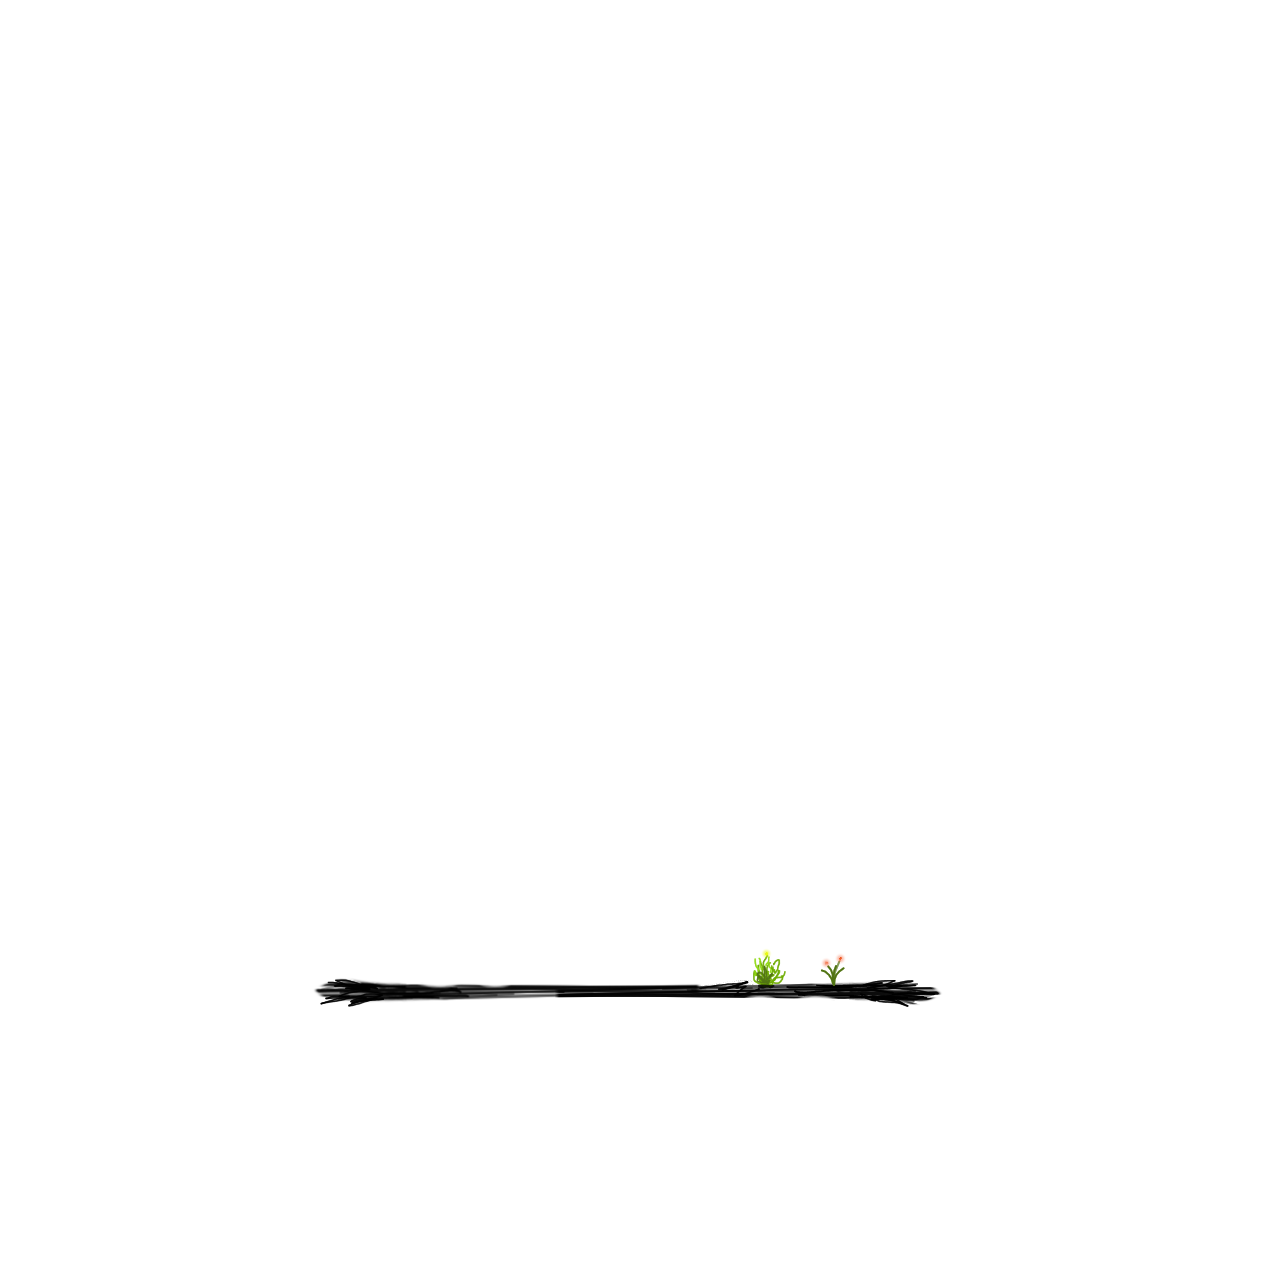
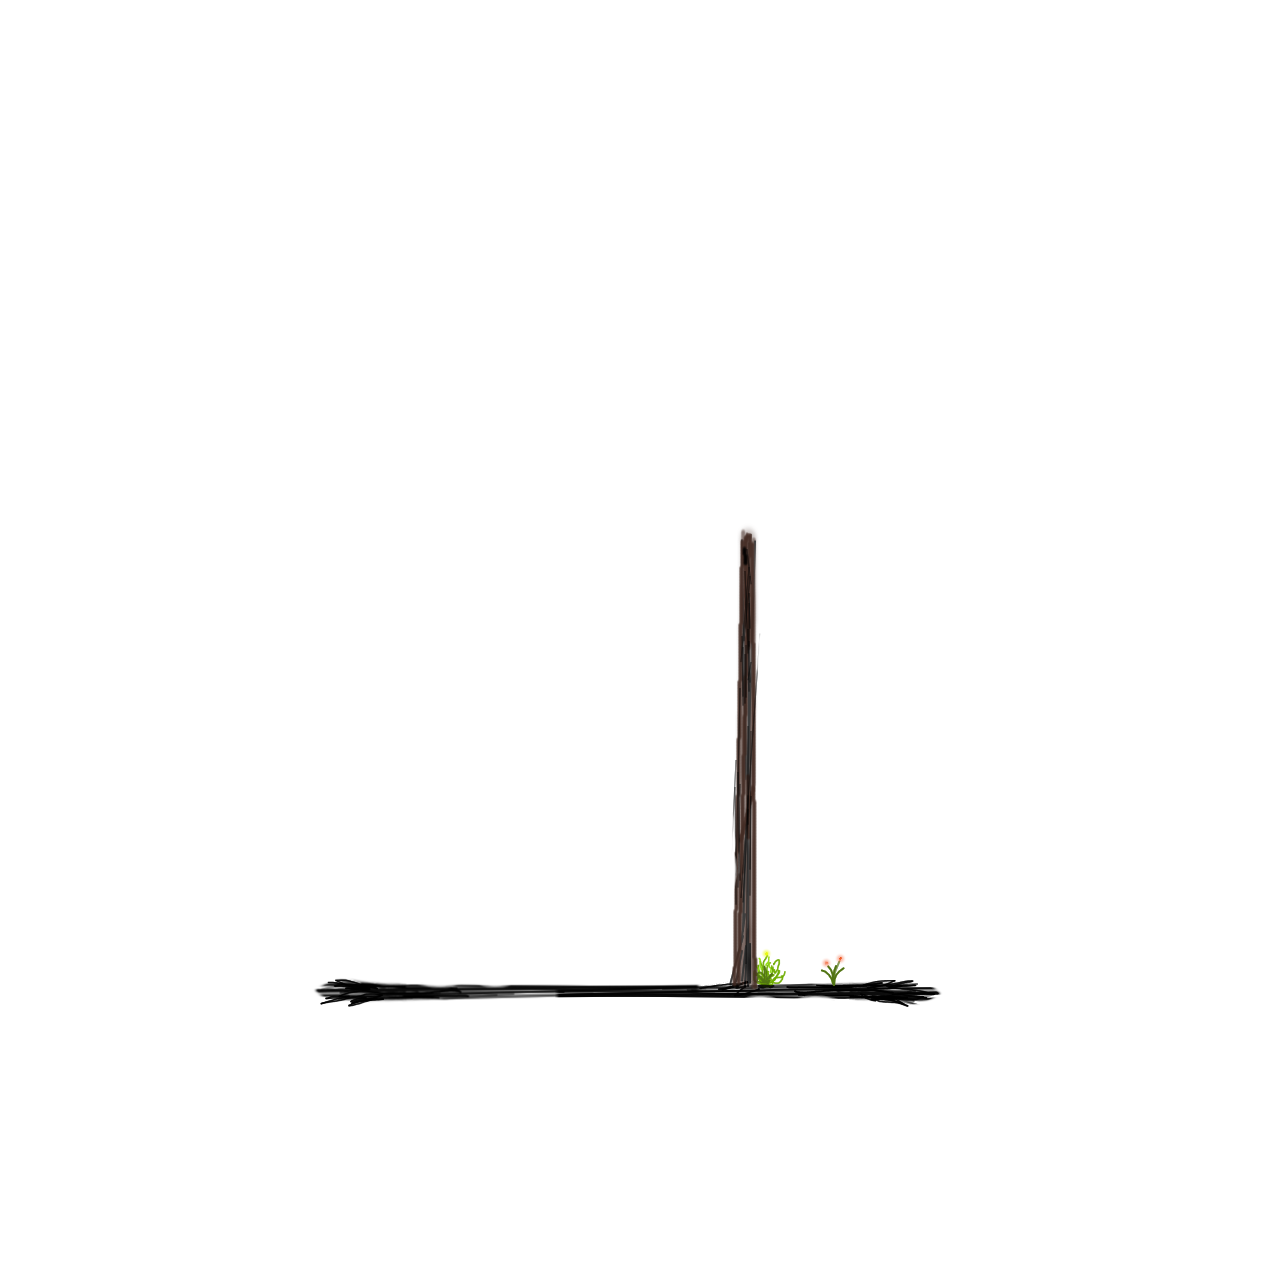
imageEtat

Changed region(s): [[0.5528, 0.3992, 0.6142, 0.7984]]

diff --git a/web/templates/Play.html b/web/templates/Play.html
@@ -16,7 +16,7 @@
         </div>
         <nav class="information">
             <section class="info">
-                <h4 id="essai">attemps : {{.Essai}} /9</h4>
+                <h4 id="essai">attemps : {{.Essai}} /10</h4>
                 <h3 id="motadeviner">mot a deviner : {{.Mot}}</h3>
                 <h3 id="motadeviner">mot motInconnu : {{.Find}}</h3>
                 <h3 id="usedletter">usedletter :</h3>
@@ -33,6 +33,9 @@
             <form action="/Home" method="get"><button class="bouton-menu" id="maison" type="submit" value=""></button></form>
             <form action="/hangman" method="get"><button class="bouton-menu" id="replay" type="submit" value=""></button></form>
         </section>
+        <div class="image-container">
+            <img src="/utiles/etat{{.Essai}}.png" alt="État du pendu" class="pendu-image">
+        </div>
         
         <form class="clavier" action="/hangman" method="post">
             <div class="clavier1">

diff --git a/web/css/StylePlay.css b/web/css/StylePlay.css
@@ -66,7 +66,17 @@ html {
 #maison {
     background-image: url('/utiles/bouton_home.png');
 }
+.image-container {
+    text-align: center; 
+    margin: 20px 0;
+}
 
+.pendu-image {
+    max-width: 100%; 
+    height: auto; 
+    display: block; 
+    margin: 0 auto; 
+}
 
 .bouton {
     border-width: 0px;
